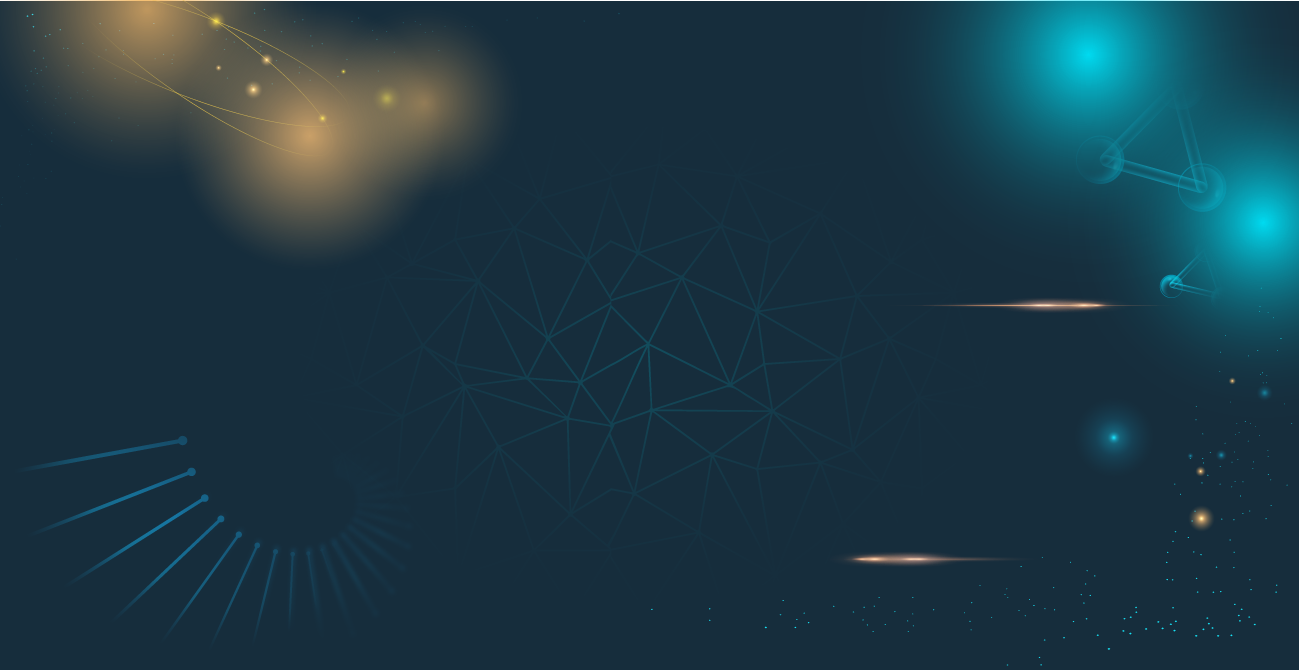
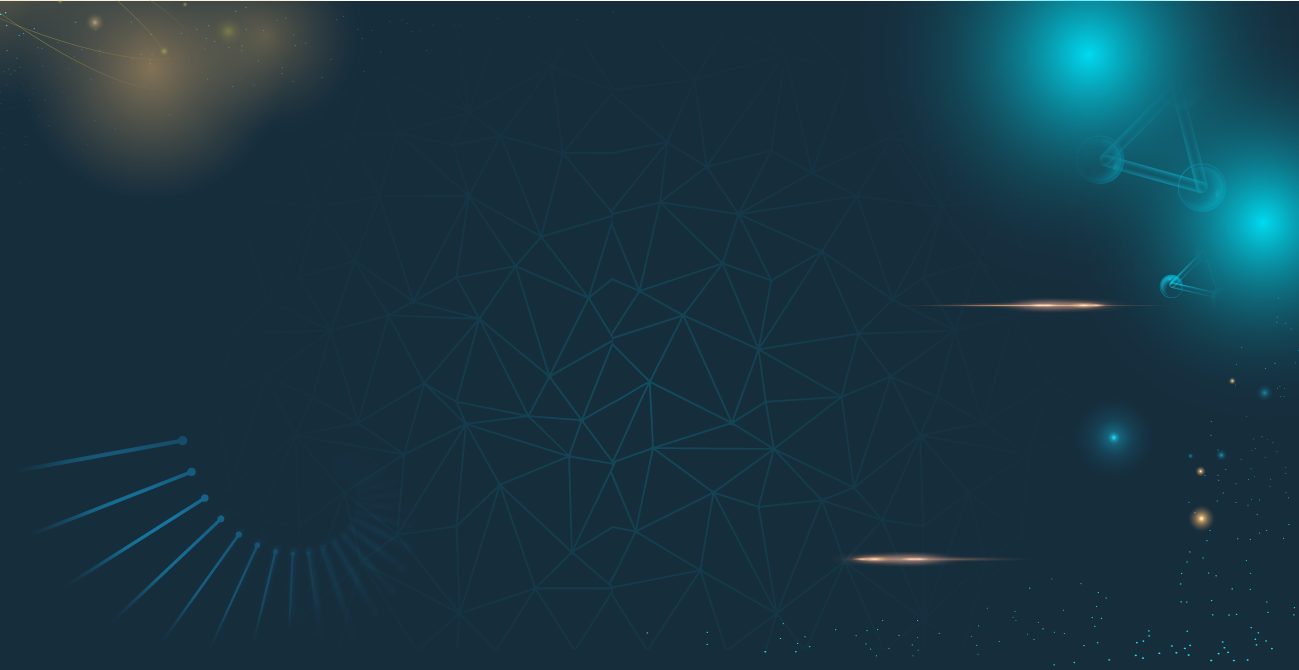
gif homepage

diff --git a/src/App.css b/src/App.css
@@ -7,7 +7,7 @@
 
 
 .cores {
-  color: rgba(22, 45, 60, 0.835);
+  color: #162d3c;
   color: #162d3b;
   color: rgba(201, 207, 211, 0.849); /* antigo background */
   color: #538dc7; /* "Produtos Químicos- Homepage" */
@@ -28,7 +28,7 @@ body {
   font-size: 10px;
   text-rendering: optimizeLegibility;
   width: 100vw;
-  background-color: rgba(255, 255, 255, 0.766);
+  background-color: #ffffffc3;
   overflow-x: hidden; 
 }
 
@@ -206,6 +206,16 @@ body {
   padding-bottom: 10%;
 }
 
+.scrollGif{
+position: absolute;
+width: 40px;
+height: 40px;
+filter: invert(100) opacity(0.5);
+bottom: 20px;
+left: 50vw;
+}
+
+
 
 .secHomeContainer {
   width: 100vw;
@@ -214,6 +224,15 @@ body {
   text-align: justify;
   color: #243c4c;
   background-color:rgba(222,228,227,255);
+}
+
+.fadeTransition{
+  position: absolute;
+  top: 0;
+  width: 100vw;
+  height: 10vw;
+  background: rgb(22,45,59);
+background: linear-gradient(0deg, rgba(22,45,59,0) 0%, rgba(22,45,59,1) 100%);
 }
 
 .secHomeContainerContent{
@@ -662,6 +681,24 @@ font-family: "Roboto", sans-serif;
   font-size: 14px;
 }
 
+
+
+/* ---------------------Sobre---------------------- */
+
+#sobre{
+  background: rgb(255, 255, 255);
+  background-image:url(/utq-Background-opacity.png);
+  background-size: cover;
+  background-attachment: fixed;
+
+
+}
+
+
+/* ---------------------Sobre- FIM--------------------- */
+
+
+
 /*-----------------Parceiros------------------  */
 
 header {
@@ -678,10 +715,10 @@ header h1 {
   display: flex;
   flex-direction: column;
   align-items: center;
-  background-image: url("/footerBg.png");
+  background: rgb(255, 255, 255);
+  background-image:url(/utq-Background-opacity.png);
   background-size: cover;
-  background: rgb(22,45,59);
-background: linear-gradient(0deg, rgb(32, 65, 85) 0%, rgb(196, 219, 227) 80%, rgba(22,45,59,1) 100%);
+  background-attachment: fixed;
 }
 
 
@@ -733,6 +770,7 @@ background: linear-gradient(0deg, rgb(32, 65, 85) 0%, rgb(196, 219, 227) 80%, rg
   margin-bottom: 7%;
   color: rgba(22, 45, 60, 0.925);
   font-family: "Roboto";
+  backdrop-filter: blur(4px);
 }
 
 .logo-container h3{
@@ -778,10 +816,10 @@ background: linear-gradient(0deg, rgb(32, 65, 85) 0%, rgb(196, 219, 227) 80%, rg
 
 /* -------------Contactos------------------- */
 #contactos {
-  background-image: url("/footerBg.png");
-  background-size: cover;
-  background: rgb(22,45,59);
-background: linear-gradient(0deg, rgb(32, 65, 85) 0%, rgb(203, 234, 246) 100%);
+background: rgb(255, 255, 255);
+background-image:url(/utq-Background-opacity.png);
+background-size: cover;
+background-attachment: fixed;
 
 }
 
@@ -844,7 +882,7 @@ background: linear-gradient(0deg, rgb(32, 65, 85) 0%, rgb(203, 234, 246) 100%);
 
 
 .contactosTexto {
-  background: rgba(182, 211, 228, 0.804);
+  background: rgba(214, 229, 238, 0.915);
   border-radius: 15px;
 /*   box-shadow: rgba(50, 50, 93, 0.25) 0px 2px 5px -1px, rgba(0, 0, 0, 0.3) 0px 1px 3px -1px; */
   border: 1px solid rgba(255, 255, 255, 0.2);

diff --git a/src/pages/Home.jsx b/src/pages/Home.jsx
@@ -6,9 +6,10 @@ import handshake from "/handshake-icon.png";
 import exchange from "/exchange-icon.png";
 import logo from "/UTQ-logo.png";
 import colormix from "/poCoresCroppedDark.jpg";
-import produtosImage from "/public/tubosDeEnsaio.jpg"
-import contactosImage from "/public/contacto-header.jpg"
+import produtosImage from "/tubosDeEnsaio.jpg"
+import contactosImage from "/contacto-header.jpg"
 import { Link } from "react-router-dom";
+import scrollGif from "/mouseScroll.gif"
 
 
 
@@ -17,25 +18,31 @@ function Home() {
     <>
       <section className="homeContainer">
         <div className="homeLetters">
-          <img className="logo text1" src={logo} alt="UT Químicos logotipo" />
 
+        <ScrollReveal delay={700} duration={1000}>
+          <img className="logo text1" src={logo} alt="UT Químicos logotipo" />
+</ScrollReveal>
           <ScrollReveal delay={1000} duration={2000}>
             <h5 className="text2">
               COMÉRCIO E <br /> DISTRIBUIÇÃO DE
             </h5>
           </ScrollReveal>
-          <ScrollReveal delay={2000} duration={3000}>
+          <ScrollReveal delay={2000} duration={2500}>
             <h4 className="text3">PRODUTOS QUÍMICOS</h4>
           </ScrollReveal>
         </div>
+
+        <img src={scrollGif} alt="gif de um rato a fazer scroll" className="scrollGif"/>
       </section>
 
       <div className="secHomeContainer">
+
+      <div className="fadeTransition"></div>
         <div className="secHomeContainerContent">
           <h3>
             Na <strong>U. T. Químicos, Lda</strong> dedicamo-nos à distribuição
             de produtos químicos e matérias primas para a indústria
-            transformadora.
+            transformadora
           </h3>
 
           <div className="bannerHomePage">

diff --git a/src/pages/Sobre.jsx b/src/pages/Sobre.jsx
@@ -4,6 +4,8 @@ function Sobre() {
 
     <div id="sobre">
 
+    
+
 
 
 
